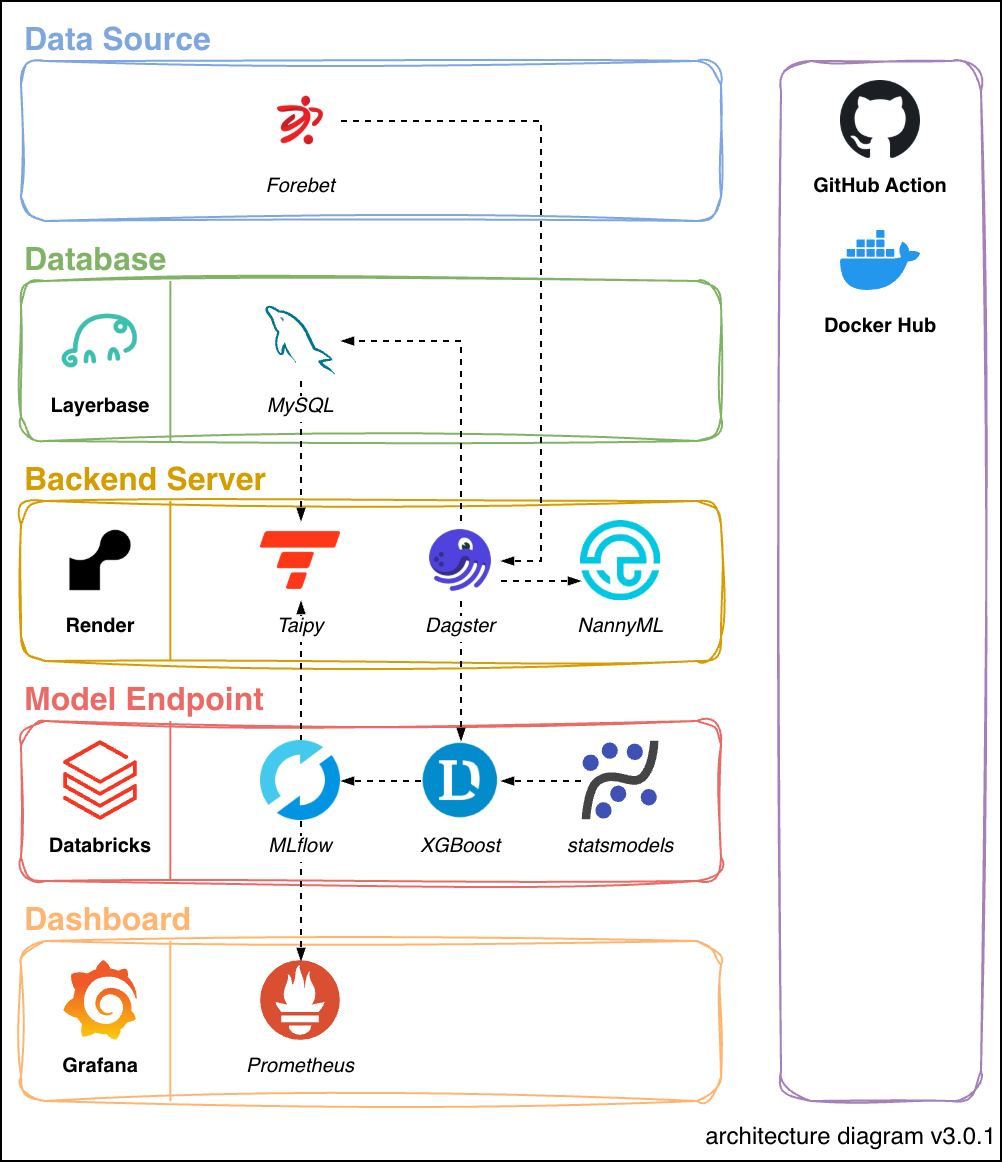
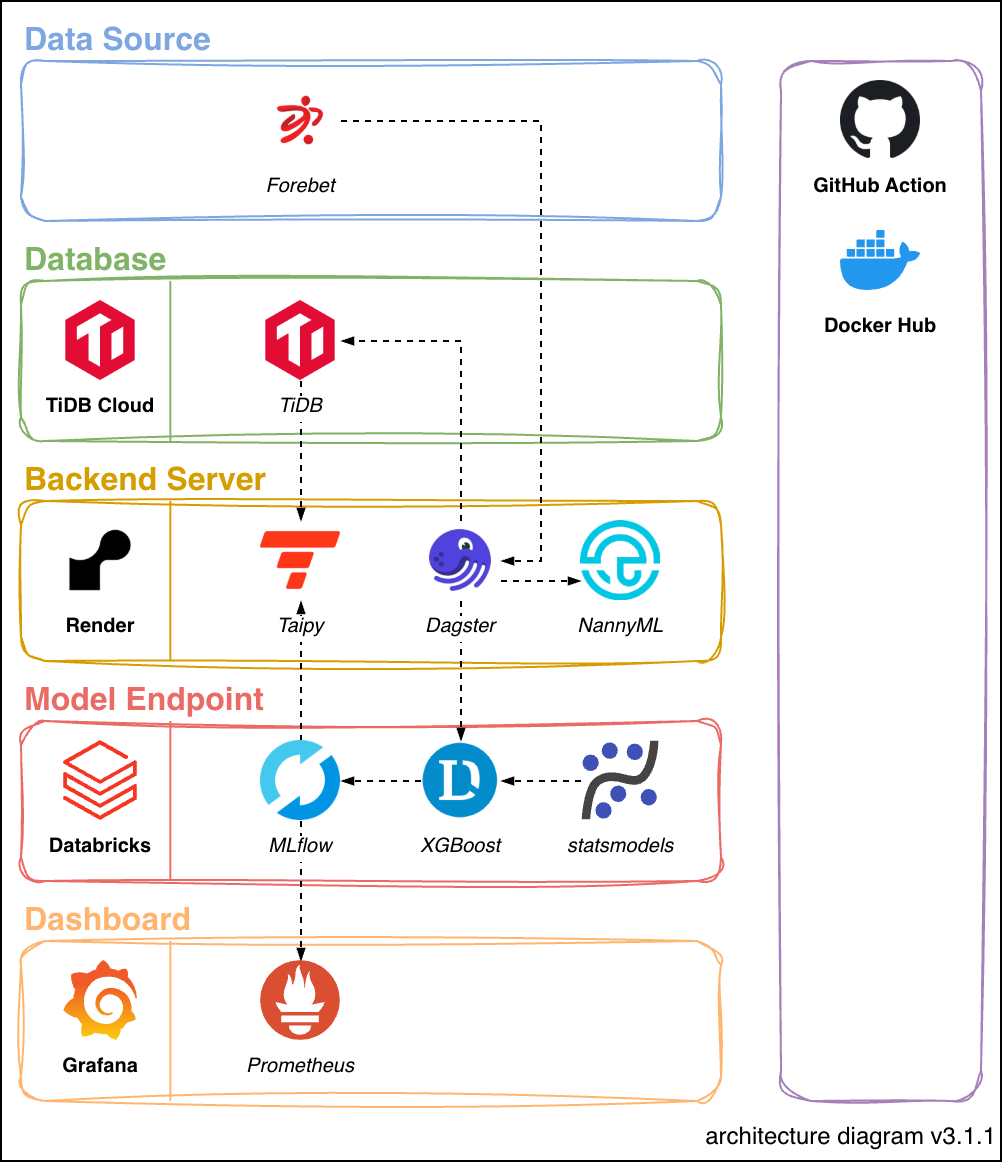
[3.1.1] updated the new season schedule and migrated the database away from the unstable host

diff --git a/betsim/pipeline/assets/cleansing.py b/betsim/pipeline/assets/cleansing.py
@@ -13,7 +13,7 @@ from dagster import (
 )
 
 from betsim.pipeline.io import write_artefact
-from betsim.shared.settings import ScheduleConfig
+from betsim.shared.settings import ScheduleConfig, SeasonConfig
 
 
 def parse_identifiers(df: pd.DataFrame) -> pd.DataFrame:
@@ -25,7 +25,9 @@ def parse_datetime(df: pd.DataFrame) -> pd.DataFrame:
     jst = pd.to_datetime(df["date"], format="%d/%m/%Y %H:%M %Z", utc=True) \
         .dt.tz_convert(ScheduleConfig.TIMEZONE)
 
-    df["season"] = jst.dt.year
+    new_era_autumn = (jst.dt.year >= SeasonConfig.SWITCH_YEAR) \
+        & (jst.dt.month >= SeasonConfig.ROLLOVER_MONTH)
+    df["season"] = jst.dt.year + new_era_autumn
     df["date"] = jst.dt.strftime("%Y-%m-%d")
     df["time"] = jst.dt.strftime("%H:%M")
     df["gdt"] = df["date"] + " " + df["time"]

diff --git a/betsim/shared/utils.py b/betsim/shared/utils.py
@@ -1,6 +1,11 @@
 from datetime import datetime
 
+from betsim.shared.settings import SeasonConfig
+
 
 def get_current_season(date: datetime | None = None) -> str:
-    yr = (date or datetime.now()).year
-    return f"{yr - 1}-{yr}"
+    d = date or datetime.now()
+    if (d.year, d.month) >= (SeasonConfig.SWITCH_YEAR, SeasonConfig.ROLLOVER_MONTH):
+        start = d.year if d.month >= SeasonConfig.ROLLOVER_MONTH else d.year - 1
+        return f"{start}-{start + 1}"
+    return f"{d.year - 1}-{d.year}"

diff --git a/betsim/shared/settings.py b/betsim/shared/settings.py
@@ -79,6 +79,11 @@ class ScheduleConfig:
     FORMAT_YMD = TOML["schedule"]["format_ymd"]
 
 
+class SeasonConfig:
+    ROLLOVER_MONTH = TOML["season"]["rollover_month"]
+    SWITCH_YEAR = TOML["season"]["switch_year"]
+
+
 class SentinelConfig:
     SEASON = TOML["sentinel"]["season"]
     DATE = TOML["sentinel"]["date"]

diff --git a/README.md b/README.md
@@ -12,7 +12,7 @@ Over the decades, we, as punters, have donated an enormous amount of money to th
   <a href="https://betsim-emulator.onrender.com/"><img src="https://custom-icon-badges.demolab.com/badge/Taipy-ff371a?logo=taipy&logoColor=fff"></a>
   <a href="https://jackcky.grafana.net/public-dashboards/7fd62c726443452e9763d80383f9faa6"><img src="https://custom-icon-badges.demolab.com/badge/Grafana-f15b2a?logo=grafana&logoColor=fff"></a>
   <a href="https://docs.google.com/spreadsheets/d/1hZBngU6REh5M9iyUclPlf8IyO3Iz3ZVW1exo_-vM1ks/pubhtml?gid=278705126&single=true"><img src="https://custom-icon-badges.demolab.com/badge/Backlog-319E4F?logo=Google-Sheets&logoColor=fff"></a>
-  <p><strong>First Published:</strong> 26 November 2022<br><strong>Last Updated:</strong> 26 July 2026</p>
+  <p><strong>First Published:</strong> 26 November 2022<br><strong>Last Updated:</strong> 16 August 2026</p>
 </div>
 
 
@@ -90,9 +90,9 @@ The HCP is an XGBoost classifier that learns from net differences in team proper
 ## Behind the Scenes
 Bet Simulator draws [J1 League](https://www.forebet.com/en/football-tips-and-predictions-for-japan/j1-league) fixture data, match results, and Asian Handicap lines from **Forebet**, forming the foundation of its predictive analysis.
 
-Built with **Taipy**, the simulator offers an interactive playground for exploring matches and testing predictions. On the backend, _Dagster_ orchestrates the MLOps pipeline, preparing the data, managing the **MySQL** database, and training the models that power the application. These models are developed with _statsmodels_ and _XGBoost_. Experiment tracking is handled in **MLflow**, monitoring metrics are pushed to **Prometheus**, and post-deployment performance is monitored through _NannyML_.
+Built with **Taipy**, the simulator offers an interactive playground for exploring matches and testing predictions. On the backend, _Dagster_ orchestrates the MLOps pipeline, preparing the data, managing the **TiDB** database, and training the models that power the application. These models are developed with _statsmodels_ and _XGBoost_. Experiment tracking is handled in **MLflow**, monitoring metrics are pushed to **Prometheus**, and post-deployment performance is monitored through _NannyML_.
 
-The simulator runs on **Render**'s Hobby Plan. The database is hosted on **Layerbase**'s Free tier, model endpoints are served through **Databricks** Free Edition, and operational visibility is supported by **Grafana Cloud**'s free tier. This setup keeps the solution freely accessible, although service disruptions may occur due to free-tier limitations.
+The simulator runs on **Render**'s Hobby Plan. The database is hosted on **TiDB Cloud**'s Starter plan, model endpoints are served through **Databricks** Free Edition, and operational visibility is supported by **Grafana Cloud**'s free tier. This setup keeps the solution freely accessible, although service disruptions may occur due to free-tier limitations.
 
 <div align="center">
   <a href="https://betsim-emulator.onrender.com/"><img src="./imgs/solution_architect.png" width="60%"></a>

diff --git a/CHANGELOG.md b/CHANGELOG.md
@@ -1,5 +1,20 @@
 # Changelog
 
+## [3.1.1] - 2026-08-16
+
+Updated the new season schedule and migrated the database away from the unstable host.
+
+### Added
+- Added a `make pull` target to fetch the pipeline image explicitly before execution.
+
+### Changed
+- Updated the GitHub Actions pipeline workflow to pull the image first, then run the pipeline without re-triggering Docker image pulls during execution.
+- Adjusted the Makefile workflow to separate image retrieval from pipeline execution for more reliable scheduled runs.
+- Switched the application database from MySQL to TiDB after the previous host, Layerbase, proved unstable and unreliable.
+
+### Fixed
+- Stabilised the weekly pipeline schedule by avoiding the race-prone `--pull missing` behaviour and reducing intermittent deployment failures.
+
 ## [3.0.1] - 2026-07-26
 
 Rebuilt the project as an end-to-end MLOps workflow with a Dagster pipeline and a Taipy simulator.
